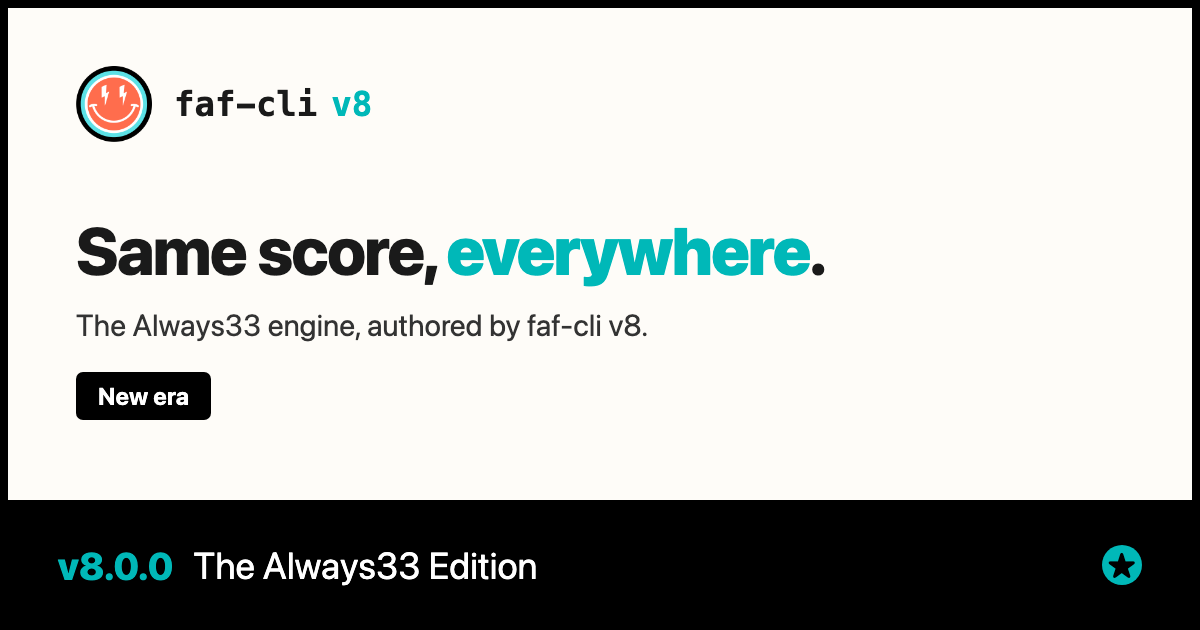
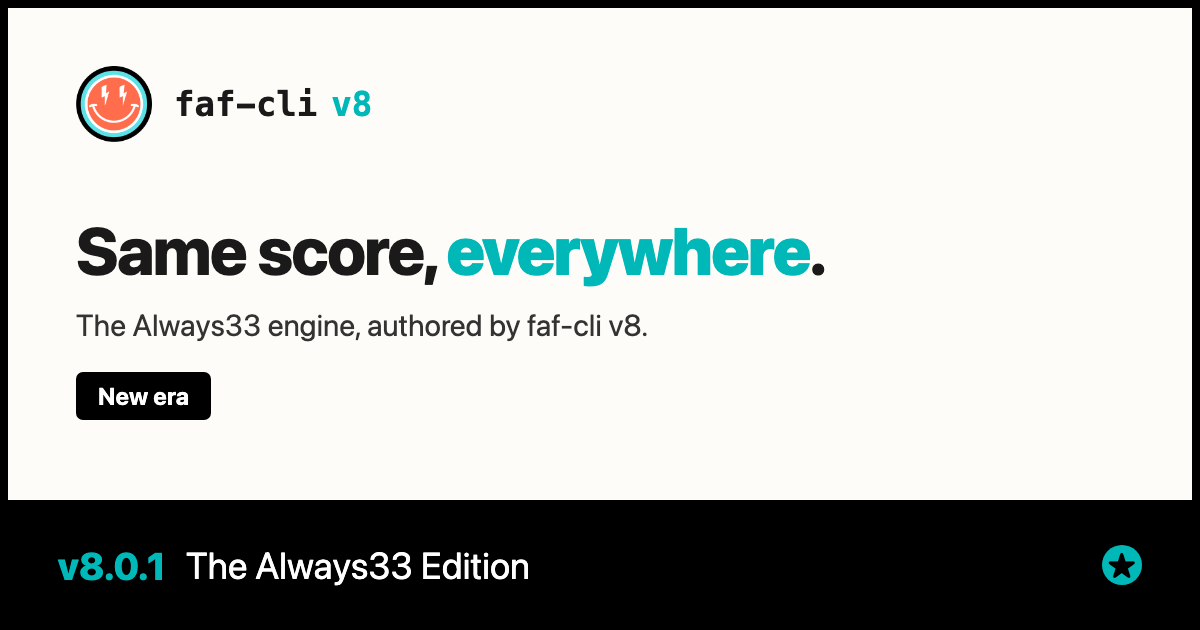
docs: faf-cli v8.0.1 update on the Always33 Part I post
- Update box: 8.0.1 fixes pnpm installs of faf-cli and the MCP servers on it
- Install lines, version tag, title, share text and technical details 8.0.1
- What-happened list gains v8.0.1; pnpm dlx faf in the try-it note
- Card band v8.0.1; blog index clue faf-cli v8.0.1

Changed region(s): [[0.1233, 0.8746, 0.4625, 0.9349]]

diff --git a/src/routes/blog/always33-edition/+page.svelte b/src/routes/blog/always33-edition/+page.svelte
@@ -5,7 +5,7 @@
 	// Cloudflare Scrape Shield mangles package@version as "email" — always use NpmPkg in HTML.
 	import NpmPkg from '$lib/NpmPkg.svelte';
 
-	const shareText = `🏁 Just shipped: faf-cli v8.0.0 — The Always33 Edition
+	const shareText = `🏁 Just shipped: faf-cli v8.0.1 — The Always33 Edition
 
 One engine, one number.
 
@@ -23,12 +23,12 @@ Comments · suggestions · shares welcome.`;
 </script>
 
 <svelte:head>
-	<title>The Always33 Edition - faf-cli v8.0.0 | FAF</title>
+	<title>The Always33 Edition - faf-cli v8.0.1 | FAF</title>
 	<meta
 		name="description"
 		content="A new era: the Always33 engine, authored by faf-cli v8. Same score, everywhere. Run faf auto after upgrading and the score returns."
 	/>
-	<meta property="og:title" content="The Always33 Edition - faf-cli v8.0.0" />
+	<meta property="og:title" content="The Always33 Edition - faf-cli v8.0.1" />
 	<meta
 		property="og:description"
 		content="A new era: the Always33 engine, authored by faf-cli v8. Same score, everywhere."
@@ -41,17 +41,17 @@ Comments · suggestions · shares welcome.`;
 	<meta property="og:image:type" content="image/png" />
 	<meta property="og:image:width" content="1200" />
 	<meta property="og:image:height" content="630" />
-	<meta property="og:image:alt" content="faf-cli v8.0.0, The Always33 Edition: same score, everywhere. The Always33 engine, authored by faf-cli v8." />
+	<meta property="og:image:alt" content="faf-cli v8.0.1, The Always33 Edition: same score, everywhere. The Always33 engine, authored by faf-cli v8." />
 	<meta name="twitter:card" content="summary_large_image" />
 	<meta name="twitter:site" content="@fafformat" />
 	<meta name="twitter:creator" content="@wolfe_jam" />
-	<meta name="twitter:title" content="The Always33 Edition - faf-cli v8.0.0" />
+	<meta name="twitter:title" content="The Always33 Edition - faf-cli v8.0.1" />
 	<meta
 		name="twitter:description"
 		content="A new era: the Always33 engine, authored by faf-cli v8. Same score, everywhere."
 	/>
 	<meta name="twitter:image" content="https://faf.one/blog/always33-edition-hero.png" />
-	<meta name="twitter:image:alt" content="faf-cli v8.0.0, The Always33 Edition: same score, everywhere. The Always33 engine, authored by faf-cli v8." />
+	<meta name="twitter:image:alt" content="faf-cli v8.0.1, The Always33 Edition: same score, everywhere. The Always33 engine, authored by faf-cli v8." />
 </svelte:head>
 
 <div class="blog-post">
@@ -60,7 +60,7 @@ Comments · suggestions · shares welcome.`;
 			<a href="/">Home</a> / <a href="/blog">Blog</a> / The Always33 Edition
 		</div>
 		<h1>The Always33 Edition</h1>
-		<p class="version-tag">faf-cli v8.0.0 · Always33 series, Part I</p>
+		<p class="version-tag">faf-cli v8.0.1 · Always33 series, Part I</p>
 		<p class="subtitle">
 			A new era: the Always33 engine. Same score, everywhere, authored by faf-cli v8.
 		</p>
@@ -74,7 +74,7 @@ Comments · suggestions · shares welcome.`;
 	<div class="hero-image">
 		<img
 			src="/blog/always33-edition-hero.png"
-			alt="faf-cli v8.0.0, The Always33 Edition: same score, everywhere. The Always33 engine, authored by faf-cli v8."
+			alt="faf-cli v8.0.1, The Always33 Edition: same score, everywhere. The Always33 engine, authored by faf-cli v8."
 			width="1200"
 			height="630"
 			loading="eager"
@@ -83,6 +83,19 @@ Comments · suggestions · shares welcome.`;
 	</div>
 
 	<article class="post-content">
+		<aside class="update-note">
+			<p class="update-label">Update, September 30: v8.0.1</p>
+			<p>
+				<strong>faf-cli v8.0.1 fixes installs with pnpm.</strong> v8.0.0 pointed at a folder inside
+				faf-cli that pnpm couldn't find, so pnpm installs of faf-cli, and of the MCP servers built on
+				it, stopped with an error. v8.0.1 gets the scoring kernel from npm instead. It also works with
+				<code>pnpm dlx faf</code>.
+			</p>
+			<div class="terminal-block">
+				<code>npm install -g <NpmPkg name="faf-cli" version="8.0.1" /></code>
+			</div>
+		</aside>
+
 		<section class="intro">
 			<p class="lead">
 				<strong>TL;DR:</strong> faf-cli v8 authors a new era: the Always33 engine. Same score,
@@ -106,12 +119,12 @@ Comments · suggestions · shares welcome.`;
 				</p>
 			</div>
 			<div class="terminal-block">
-				<code>npm install -g <NpmPkg name="faf-cli" version="8.0.0" /></code>
+				<code>npm install -g <NpmPkg name="faf-cli" version="8.0.1" /></code>
 				<code>faf auto</code>
 			</div>
 			<p class="muted-note">
 				Homebrew: <code>brew install wolfe-jam/faf/faf-cli</code>. To try it without installing:
-				<code>npx faf-cli auto</code>.
+				<code>npx faf-cli auto</code> or <code>pnpm dlx faf auto</code>.
 			</p>
 		</section>
 
@@ -129,6 +142,10 @@ Comments · suggestions · shares welcome.`;
 				</li>
 				<li>
 					<strong>v8.0.0</strong>: The Always33 Edition. This is the log entry for the stretch.
+				</li>
+				<li>
+					<strong>v8.0.1</strong>: pnpm installs work. faf-cli gets its scoring kernel from npm, not
+					a folder inside the package.
 				</li>
 			</ul>
 			<p>
@@ -195,7 +212,7 @@ Comments · suggestions · shares welcome.`;
 			<h2>Try it</h2>
 			<p><strong>Install</strong> (npm or Homebrew):</p>
 			<div class="terminal-block">
-				<code>npm install -g <NpmPkg name="faf-cli" version="8.0.0" /></code>
+				<code>npm install -g <NpmPkg name="faf-cli" version="8.0.1" /></code>
 				<code>brew install wolfe-jam/faf/faf-cli</code>
 			</div>
 			<p><strong>Then, in your project:</strong></p>
@@ -220,7 +237,7 @@ Comments · suggestions · shares welcome.`;
 		<section>
 			<h2>Technical details</h2>
 			<ul>
-				<li><strong>Version:</strong> 8.0.0 (September 26, 2026)</li>
+				<li><strong>Version:</strong> 8.0.1 (September 30, 2026); 8.0.0 shipped September 26</li>
 				<li><strong>Edition:</strong> The Always33 Edition</li>
 				<li><strong>Scoring:</strong> always-33 kernel (Rust → WASM); faf-cli fills 21 slots, the 12 enterprise slots <code>slotignored</code></li>
 				<li><strong>Verified:</strong> same score as the reference scorer on 80 FAF repos</li>
@@ -369,6 +386,26 @@ Comments · suggestions · shares welcome.`;
 		text-decoration: underline;
 	}
 
+	.update-note {
+		margin: 0 0 2rem;
+		padding: 1.25rem 1.35rem;
+		background: #f7f5f0;
+		border-radius: 8px;
+		border-left: 4px solid #00b8b8;
+	}
+	.update-note p {
+		margin: 0 0 0.75rem;
+	}
+	.update-note .update-label {
+		font-size: 0.82rem;
+		font-weight: 800;
+		letter-spacing: 0.06em;
+		text-transform: uppercase;
+		color: #1a1a1a;
+	}
+	.update-note .terminal-block {
+		margin: 0.75rem 0 0;
+	}
 	.lead {
 		font-size: 1.15rem;
 		padding: 1.25rem 1.35rem;

diff --git a/src/routes/blog/+page.svelte b/src/routes/blog/+page.svelte
@@ -88,7 +88,7 @@
 		{
 			slug: 'blog/always33-edition',
 			title: 'The Always33 Edition, Part I',
-			version: 'faf-cli v8.0.0',
+			version: 'faf-cli v8.0.1',
 			date: 'September 29, 2026',
 			timestamp: '2026-09-29',
 			excerpt:
